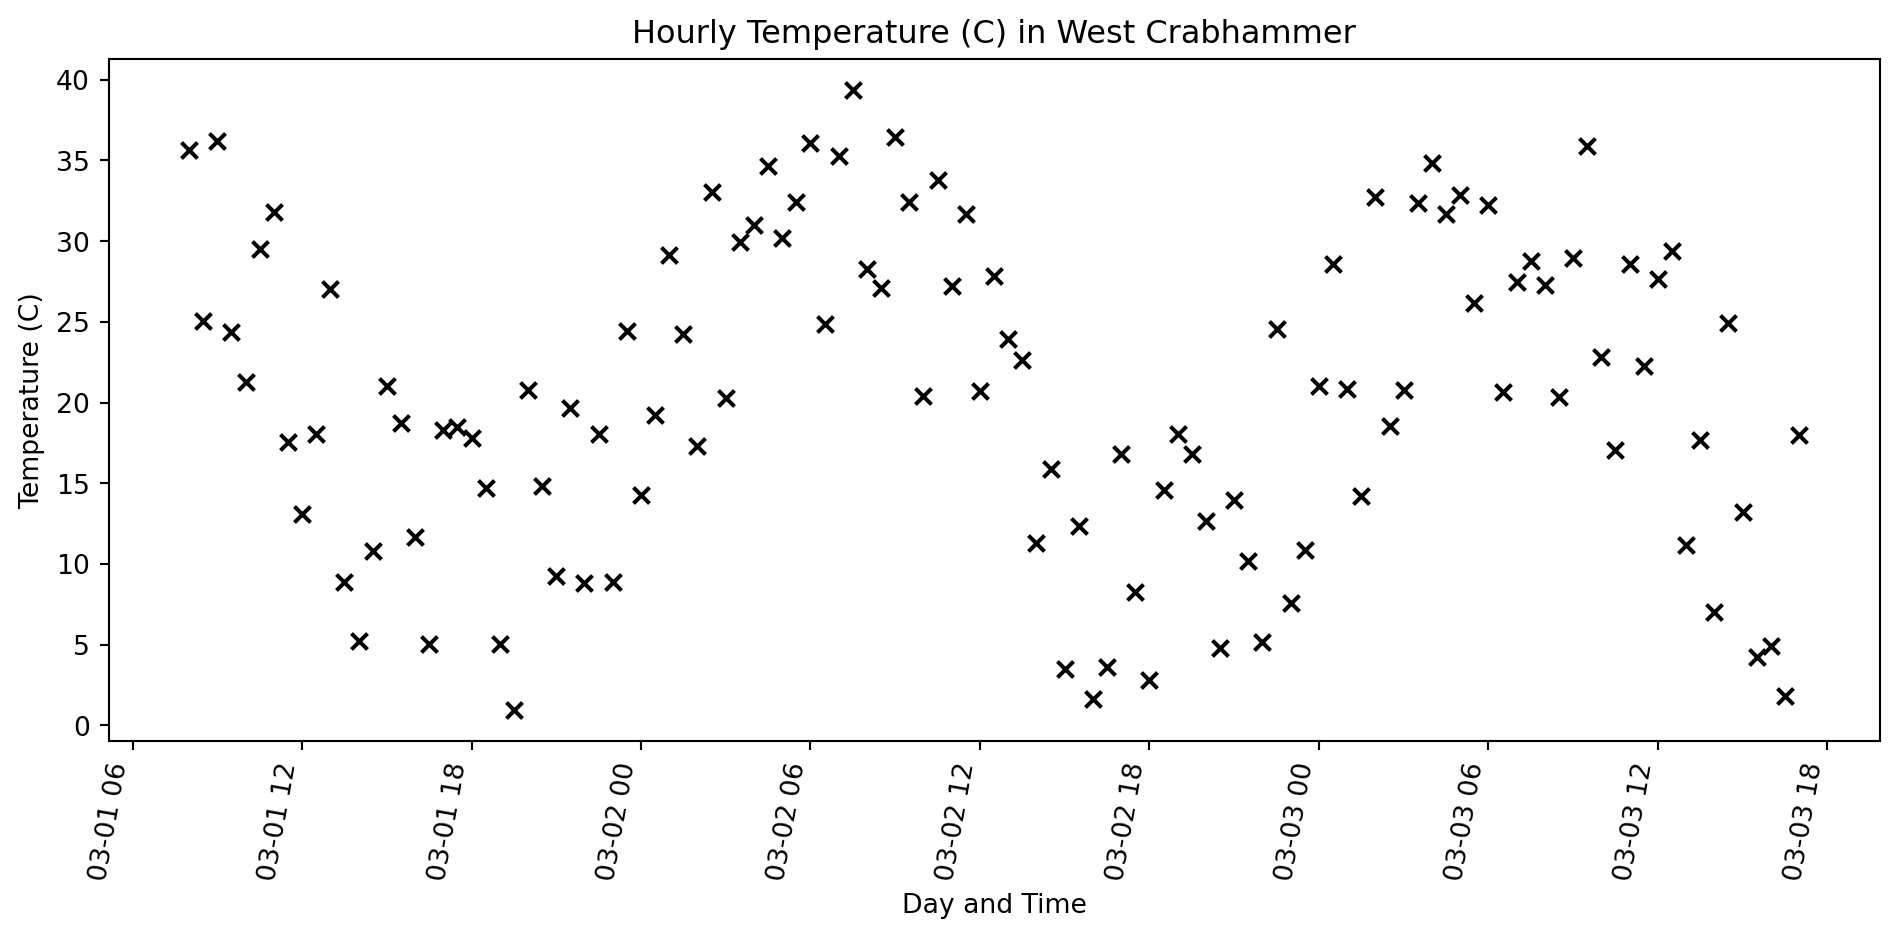
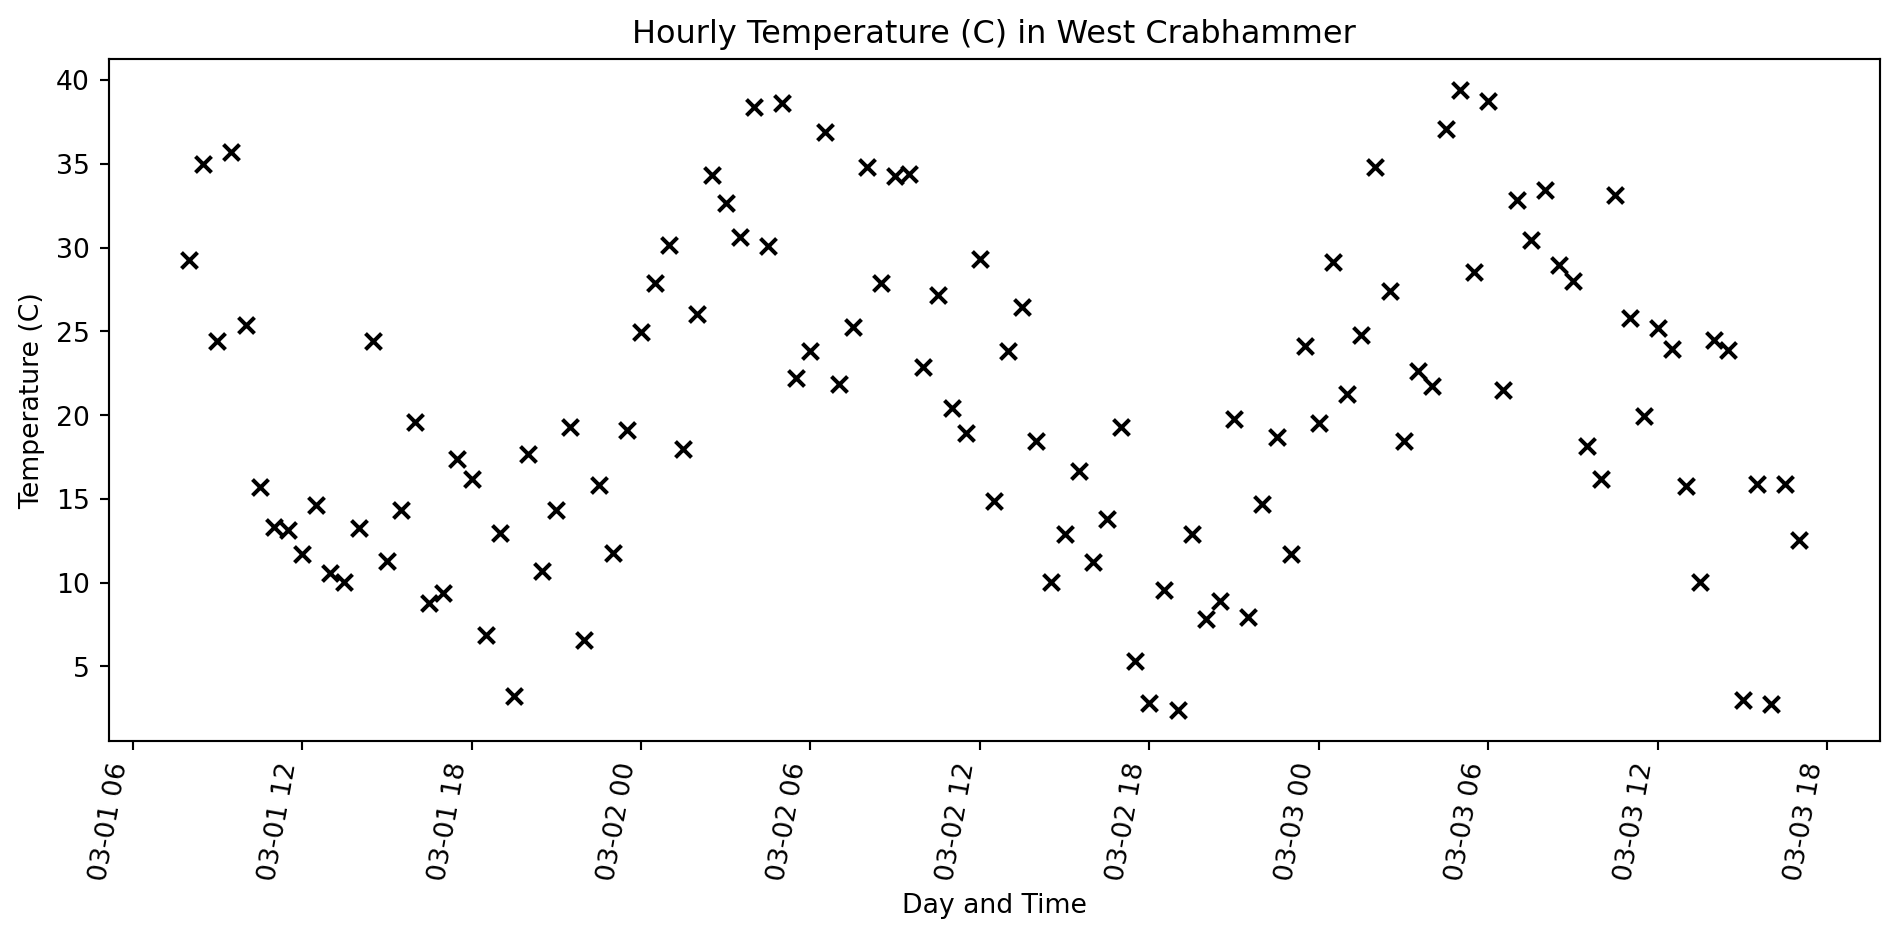
slideshow work

diff --git a/docs/python_geospatial_basics.html b/docs/python_geospatial_basics.html
@@ -264,7 +264,7 @@
 <section id="basic-numbers" class="slide level2">
 <h2>Basic Numbers</h2>
 <p>Floats and Ints don’t do anything all that surprising</p>
-<div id="c0dda776" class="cell columns column-output-location" data-execution_count="1">
+<div id="35f16cae" class="cell columns column-output-location" data-execution_count="1">
 <div class="column">
 <div class="sourceCode cell-code" id="cb1"><pre class="sourceCode numberSource python number-lines code-with-copy"><code class="sourceCode python"><span id="cb1-1"><a></a>a <span class="op">=</span> <span class="dv">2</span> <span class="op">+</span> <span class="dv">2</span></span>
 <span id="cb1-2"><a></a>b <span class="op">=</span> <span class="fl">2.0</span> <span class="op">+</span> <span class="fl">2.0</span></span>
@@ -291,7 +291,7 @@ but 5 // 4 is 1</code></pre>
 <section id="sequences" class="slide level2">
 <h2>Sequences</h2>
 <p>Lists, tuples, and strings ae all sequences</p>
-<div id="3f7b743a" class="cell columns column-output-location" data-execution_count="2">
+<div id="bd911403" class="cell columns column-output-location" data-execution_count="2">
 <div class="column">
 <div class="sourceCode cell-code" id="cb3"><pre class="sourceCode numberSource python number-lines code-with-copy"><code class="sourceCode python"><span id="cb3-1"><a></a><span class="co"># a list</span></span>
 <span id="cb3-2"><a></a>a_list <span class="op">=</span> [<span class="dv">1</span>, <span class="dv">2</span>, <span class="dv">3</span>, <span class="dv">4</span>, <span class="dv">5</span>, <span class="dv">6</span>, <span class="dv">7</span>, <span class="dv">8</span>, <span class="dv">9</span>]</span>
@@ -338,7 +338,7 @@ neushorn?</code></pre>
 </section>
 <section id="dictionaries" class="slide level2">
 <h2>Dictionaries</h2>
-<div id="ab28b11c" class="cell columns column-output-location" data-execution_count="3">
+<div id="c36ce663" class="cell columns column-output-location" data-execution_count="3">
 <div class="column">
 <div class="sourceCode cell-code" id="cb5"><pre class="sourceCode numberSource python number-lines code-with-copy"><code class="sourceCode python"><span id="cb5-1"><a></a>pets <span class="op">=</span> {<span class="st">'honden'</span>: <span class="dv">26</span>, <span class="st">'katten'</span>: <span class="dv">100</span>}</span>
 <span id="cb5-2"><a></a></span>
@@ -357,7 +357,7 @@ neushorn?</code></pre>
 </section>
 <section id="iterating" class="slide level2">
 <h2>Iterating</h2>
-<div id="191385b2" class="cell columns column-output-location" data-execution_count="4">
+<div id="53646279" class="cell columns column-output-location" data-execution_count="4">
 <div class="column">
 <div class="sourceCode cell-code" id="cb7"><pre class="sourceCode numberSource python number-lines code-with-copy"><code class="sourceCode python"><span id="cb7-1"><a></a>a <span class="op">=</span> [<span class="dv">1</span>, <span class="dv">2</span>, <span class="dv">3</span>, <span class="dv">4</span>, <span class="dv">5</span>, <span class="dv">6</span>, <span class="dv">7</span>, <span class="dv">8</span>, <span class="dv">9</span>]</span>
 <span id="cb7-2"><a></a></span>
@@ -395,8 +395,7 @@ is the same as
 </section>
 <section id="pandas" class="slide level2">
 <h2>Pandas</h2>
-<iframe width="560" height="315" src="images/pandas.png">
-</iframe>
+<p><img width="560" height="315" src="images/pandas.png"></p>
 </section>
 <section id="shapely" class="slide level2 smaller">
 <h2>Shapely</h2>
@@ -413,7 +412,7 @@ is the same as
 </section>
 <section id="polygon" class="slide level2">
 <h2>Polygon</h2>
-<div id="5974e0c5" class="cell columns column-output-location" data-execution_count="5">
+<div id="1eb3bcef" class="cell columns column-output-location" data-execution_count="5">
 <div class="column">
 <div class="sourceCode cell-code" id="cb9"><pre class="sourceCode numberSource python number-lines code-with-copy"><code class="sourceCode python"><span id="cb9-1"><a></a><span class="im">from</span> shapely <span class="im">import</span> Polygon</span>
 <span id="cb9-2"><a></a></span>
@@ -428,7 +427,7 @@ is the same as
 <div class="cell-output cell-output-stdout">
 <pre><code>True</code></pre>
 </div>
-<div class="cell-output cell-output-display" data-execution_count="125">
+<div class="cell-output cell-output-display" data-execution_count="133">
 <div>
 <figure>
 <p><img data-src="python_geospatial_basics_files/figure-revealjs/cell-6-output-2.svg"></p>
@@ -439,7 +438,7 @@ is the same as
 </section>
 <section id="pandas-dataframe" class="slide level2 scrollable">
 <h2>Pandas DataFrame</h2>
-<div id="c3f269c3" class="cell columns column-output-location" data-execution_count="6">
+<div id="e0d30ca4" class="cell columns column-output-location" data-execution_count="6">
 <div class="column">
 <div class="sourceCode cell-code" id="cb11"><pre class="sourceCode numberSource python number-lines code-with-copy"><code class="sourceCode python"><span id="cb11-1"><a></a><span class="im">from</span> datetime <span class="im">import</span> datetime, timedelta</span>
 <span id="cb11-2"><a></a><span class="im">from</span> random <span class="im">import</span> uniform</span>
@@ -474,7 +473,7 @@ is the same as
 <span id="cb11-31"><a></a></span>
 <span id="cb11-32"><a></a>df.head()</span></code><button title="Copy to Clipboard" class="code-copy-button"><i class="bi"></i></button></pre></div>
 </div><div class="column">
-<div class="cell-output cell-output-display" data-execution_count="126">
+<div class="cell-output cell-output-display" data-execution_count="134">
 <div>
 <style scoped="">
     .dataframe tbody tr th:only-of-type {
@@ -502,27 +501,27 @@ is the same as
 <tr class="odd">
 <td data-quarto-table-cell-role="th">0</td>
 <td>2025-03-01 08:00:00</td>
-<td>22.700857</td>
+<td>30.749311</td>
 </tr>
 <tr class="even">
 <td data-quarto-table-cell-role="th">1</td>
 <td>2025-03-01 08:30:00</td>
-<td>37.762322</td>
+<td>22.494478</td>
 </tr>
 <tr class="odd">
 <td data-quarto-table-cell-role="th">2</td>
 <td>2025-03-01 09:00:00</td>
-<td>32.865155</td>
+<td>18.728822</td>
 </tr>
 <tr class="even">
 <td data-quarto-table-cell-role="th">3</td>
 <td>2025-03-01 09:30:00</td>
-<td>27.433069</td>
+<td>19.974576</td>
 </tr>
 <tr class="odd">
 <td data-quarto-table-cell-role="th">4</td>
 <td>2025-03-01 10:00:00</td>
-<td>29.713602</td>
+<td>21.911915</td>
 </tr>
 </tbody>
 </table>
@@ -533,7 +532,7 @@ is the same as
 </section>
 <section id="pandas-dataframe-cont." class="slide level2 scrollable">
 <h2>Pandas DataFrame Cont.</h2>
-<div id="0da36c50" class="cell columns column-output-location" data-execution_count="7">
+<div id="59bbc449" class="cell columns column-output-location" data-execution_count="7">
 <div class="column">
 <div class="sourceCode cell-code" id="cb12"><pre class="sourceCode numberSource python number-lines code-with-copy"><code class="sourceCode python"><span id="cb12-1"><a></a><span class="im">from</span> datetime <span class="im">import</span> datetime, timedelta</span>
 <span id="cb12-2"><a></a><span class="im">from</span> random <span class="im">import</span> uniform</span>
@@ -627,8 +626,8 @@ Figure&nbsp;1: A line plot on a polar axis
 </div>
 </div></div>
 </section></section>
-<section id="next-slideshow" class="title-slide slide level1 center">
-<h1>Next Slideshow</h1>
+<section id="exploring-geopandas" class="title-slide slide level1 center">
+<h1>Exploring Geopandas</h1>
 
 
 </section>
